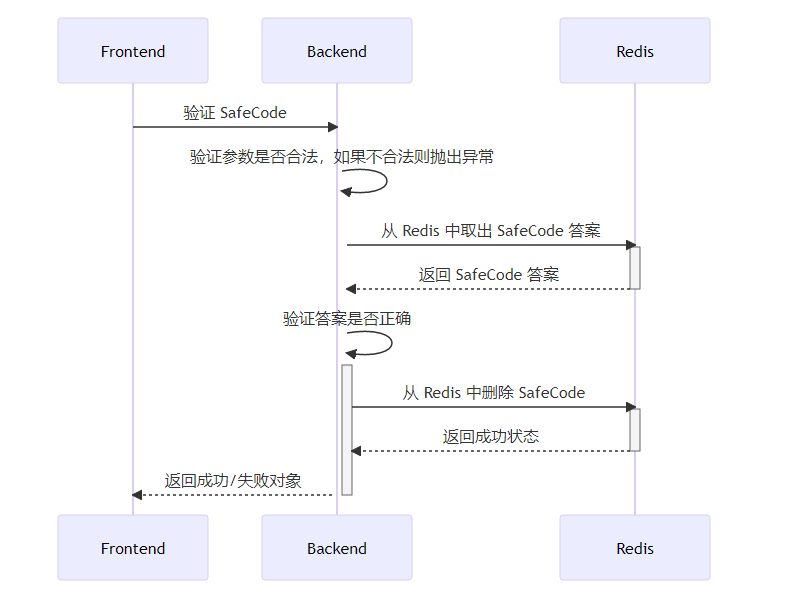
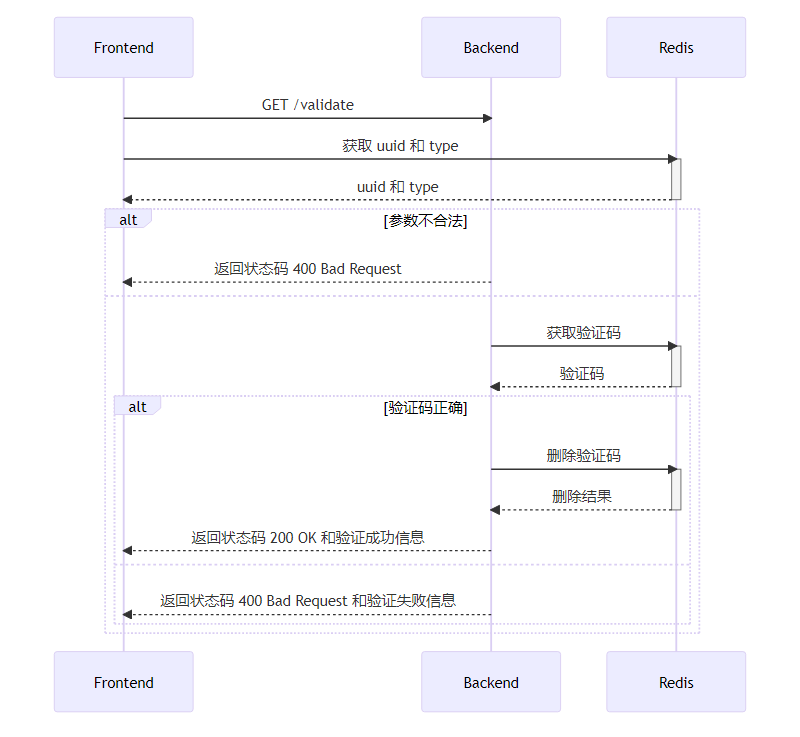
feat: 刷新处理文件任务列表按钮 img: UML 设计图 fix: 登录页面重定向问题

diff --git a/YueMedia/src/views/Introduction/index.vue b/YueMedia/src/views/Introduction/index.vue
@@ -67,9 +67,7 @@
             <img src="@/assets/image/icons/SHARE.svg" />
           </p>
           <p class="title">内容分享</p>
-          <p class="content">
-            平台同时结合数字媒体社区功能，旨在让音乐爱好者分享他们的音乐、听音乐、发现新音乐和交流。音频社区将会是一个充满活力和创意的社区，可以让音乐爱好者分享他们的音乐、听音乐、发现新音乐和交流。如果你是一个音乐爱好者，那么加入一个音乐社区可能会让你的音乐之旅更加有趣和丰富。。
-          </p>
+          <p class="content">平台结合分享短链功能，旨在为用户提供音乐分享，帮助用户拓展自己的音乐圈子、发现新音乐、推广自己的音乐和获得反馈和建议。如果您是一个音乐爱好者，那么音乐分享功能将帮助您更好地享受音乐之旅。</p>
         </div>
       </div>
     </div>

diff --git a/YueMedia/src/components/myFile/myFileTable.vue b/YueMedia/src/components/myFile/myFileTable.vue
@@ -21,14 +21,14 @@
         </template>
       </el-table-column>
       <!--   创建时间   -->
-      <el-table-column label="创建时间" width="250" prop="createdAt" sortable align="center">
+      <el-table-column label="创建时间" width="230" prop="createdAt" sortable align="center">
         <template slot-scope="scope">
           <i class="el-icon-time" style="margin-right: 10px"></i>
           <span>{{ scope.row.createdAt | dateFormat }}</span>
         </template>
       </el-table-column>
       <!--   完成时间   -->
-      <el-table-column label="完成时间" width="250" prop="finishedAt" align="center">
+      <el-table-column label="完成时间" width="230" prop="finishedAt" align="center">
         <template slot-scope="scope" v-if="scope.row.status === 2 || scope.row.status === 3">
           <i class="el-icon-time" style="margin-right: 10px"></i>
           <span>{{ scope.row.finishedAt | dateFormat }}</span>

diff --git a/YueMedia/src/views/MyFile/index.vue b/YueMedia/src/views/MyFile/index.vue
@@ -2,9 +2,12 @@
   <div style="height: 100%; width: 100%; display: flex; flex-direction: column">
     <el-card shadow="hover" class="body-card">
       <div slot="header" class="clearfix">
-        <h1>处理文件任务列表</h1>
+        <div style="display: flex; align-items: center; justify-content: space-between">
+          <h1>处理文件任务列表</h1>
+          <el-button icon="el-icon-refresh" type="primary" @click="refreshMyFileTable"></el-button>
+        </div>
       </div>
-      <myFileTable></myFileTable>
+      <myFileTable ref="myFileTable"></myFileTable>
     </el-card>
   </div>
 </template>
@@ -14,6 +17,11 @@ export default {
   name: 'MusicManageSystemMyFileView',
   components: {
     myFileTable: () => import('@/components/myFile/myFileTable.vue')
+  },
+  methods: {
+    refreshMyFileTable() {
+      this.$refs.myFileTable.renewTableData()
+    }
   }
 }
 </script>

diff --git a/YueMedia/src/router/index.js b/YueMedia/src/router/index.js
@@ -17,7 +17,7 @@ const routes = [
     path: '/login',
     name: 'login',
     component: login,
-    redirect: () => import('@/views/Login'),
+    redirect: '/login/login',
     children: [
       {
         path: 'login',

diff --git a/img/注册顺序图.md b/img/注册顺序图.md
@@ -3,28 +3,33 @@ sequenceDiagram
     participant Frontend
     participant Backend
     participant MySQL
-    Frontend->>Backend: 发送注册请求
-    Backend->>Backend: 判断参数是否存在
-    alt 参数不完整
-        Backend-->>Frontend: 返回请求参数不完整信息
-    else 参数完整
-        Backend->>MySQL: 查询用户是否已被注册
-        MySQL-->>Backend: 返回查询结果
+
+    Frontend->>Backend: POST /account/register
+    alt 请求参数不完整
+        Backend-->>Frontend: 返回状态码 400 Bad Request
+    else
+        Backend->>+MySQL: SELECT * FROM users WHERE username = 'username'
+        MySQL-->>-Backend: 用户数据
         alt 用户已被注册
-            Backend-->>Frontend: 返回用户已被注册信息
-        else 用户未被注册
-            Backend->>MySQL: 查询电话是否已被使用
-            MySQL-->>Backend: 返回查询结果
+            Backend-->>Frontend: 返回状态码 409 Conflict
+        else
+            Backend->>+MySQL: SELECT * FROM users WHERE phone = 'phone'
+            MySQL-->>-Backend: 用户数据
             alt 电话已被使用
-                Backend-->>Frontend: 返回电话已被使用信息
-            else 电话未被使用
-                Backend->>MySQL: 查询邮箱是否已被使用
-                MySQL-->>Backend: 返回查询结果
+                Backend-->>Frontend: 返回状态码 409 Conflict
+            else
+                Backend->>+MySQL: SELECT * FROM users WHERE email = 'email'
+                MySQL-->>-Backend: 用户数据
                 alt 邮箱已被使用
-                    Backend-->>Frontend: 返回邮箱已被使用信息
-                else 邮箱未被使用
-                    Backend->>MySQL: 注册新用户，新增用户数据
-                    Backend-->>Frontend: 返回注册成功信息
+                    Backend-->>Frontend: 返回状态码 409 Conflict
+                else
+                    Backend->>+Backend: 生成 UUID
+                    Backend->>+Backend: 加密密码
+                    Backend->>+MySQL: 插入用户数据
+                    MySQL-->>-Backend: 插入结果
+                    Backend->>+Backend: 计算用户已用存储空间
+                    Backend->>+Backend: 计算用户存储空间
+                    Backend-->>Frontend: 返回状态码 200 OK 和消息
                 end
             end
         end

diff --git a/img/登录顺序图.md b/img/登录顺序图.md
@@ -4,17 +4,47 @@ sequenceDiagram
     participant Backend
     participant MySQL
     participant MongoDB
+    participant Redis
 
     Frontend->>Backend: POST /account/login
-    Backend->>+MySQL: SELECT * FROM users WHERE username = 'username'
-    MySQL-->>-Backend: 用户数据
-    alt 用户不存在或密码错误
+    alt 请求参数不完整
         Backend-->>Frontend: 返回状态码 400 Bad Request
-    else 用户存在且密码正确
-        Backend->>+Backend: 生成 JWT Token
-        Backend->>+MongoDB: 插入登录记录
-        MongoDB-->>-Backend: 插入结果
-        Backend-->>Frontend: 返回状态码 200 OK 和 Token
+    else
+        Backend->>+MySQL: SELECT * FROM users WHERE username = 'username'
+        MySQL-->>-Backend: 用户数据
+        alt 用户不存在或密码错误
+            Backend-->>Frontend: 返回状态码 400 Bad Request
+        else
+            Backend->>+Redis: 获取 IP 登录次数
+            Redis-->>-Backend: 登录次数
+            alt IP 已锁定
+                Backend-->>Frontend: 返回状态码 400 Bad Request
+            else
+                Backend->>+Redis: 获取账号登录次数
+                Redis-->>-Backend: 登录次数
+                alt 账号已锁定
+                    Backend-->>Frontend: 返回状态码 400 Bad Request
+                else
+                    Backend->>+Backend: 比对密码
+                    Backend->>+Backend: 生成 JWT Token
+                    Backend->>+MongoDB: 插入登录记录
+                    MongoDB-->>-Backend: 插入结果
+                    Backend->>+Redis: 插入登录次数
+                    Redis-->>-Backend: 插入结果
+                    alt 登录成功
+                        Backend-->>Frontend: 返回状态码 200 OK 和 Token
+                    else 密码错误
+                        Backend->>+Redis: 插入 IP 登录次数
+                        Redis-->>-Backend: 插入结果
+                        Backend->>+Redis: 插入账号登录次数
+                        Redis-->>-Backend: 插入结果
+                        Backend-->>Frontend: 返回状态码 400 Bad Request
+                    end
+                end
+            end
+        end
     end
+
+
 
 ```

diff --git a/img/系统功能结构图.md b/img/系统功能结构图.md
@@ -1,0 +1,64 @@
+```mermaid
+flowchart LR;
+A[悦音-媒体管理一站式平台]-->B[音频管理];
+B-->BA[音频上传];
+B-->BB[音频下载];
+B-->BC[音频设置];
+B-->BD[音频播放];
+B-->BE[音频删除];
+B-->BF[音频查询];
+B-->BG[批量上传音频];
+B-->BH[批量下载音频];
+B-->BI[批量删除音频];
+B-->BJ[音频转码];
+A-->C[视频管理];
+C-->CA[视频上传];
+C-->CB[视频下载];
+C-->CC[视频设置];
+C-->CD[视频播放];
+C-->CE[视频删除];
+C-->CF[视频查询];
+C-->CG[批量上传视频];
+C-->CH[批量下载视频];
+C-->CI[批量删除视频];
+C-->CJ[视频转码];
+A-->D[用户管理];
+D-->DA[新增用户];
+D-->DB[修改用户信息];
+D-->DC[修改密码];
+D-->DD[修改用户状态];
+D-->DE[删除用户];
+D-->DF[查询用户];
+D-->DG[批量删除用户];
+A-->E[音频处理];
+E-->EA[音频剪辑];
+E-->EB[音频合并];
+E-->EC[音频转换];
+E-->ED[音频压缩];
+E-->EE[音频加密];
+E-->EF[音频解密];
+E-->EG[音频添加水印];
+E-->EH[音频抽取音频];
+A-->F[视频处理];
+F-->FA[视频剪辑];
+F-->FB[视频合并];
+F-->FC[视频转换];
+F-->FD[视频压缩];
+F-->FE[视频加密];
+F-->FF[视频解密];
+F-->FG[视频添加水印];
+F-->FH[视频抽取音频];
+F-->FI[视频抽取图片];
+A-->G[开放API接口];
+G-->GA[共享音频功能];
+G-->GB[共享视频功能];
+G-->GC[音频处理功能];
+G-->GD[视频处理功能];
+A-->H[数据分析];
+H-->HA[API使用情况统计];
+HA-->HAA[API音视频处理情况];
+H-->HB[用户使用情况统计];
+HB-->HBA[用户音视频上传情况];
+HB-->HBB[用户音视频下载情况];
+
+```

diff --git a/img/注册状态图.md b/img/注册状态图.md
@@ -1,9 +1,25 @@
 ```mermaid
 stateDiagram
-    [*] --> 校验请求体是否合法
-    校验请求体是否合法 --> 判断用户名|电话|邮箱是否已被注册
-    判断用户名|电话|邮箱是否已被注册 --> 生成uuid和bcrypt加密密码
-    生成uuid和bcrypt加密密码 --> 插入用户表，新增用户数据
-    插入用户表，新增用户数据 --> 返回注册成功信息
-    返回注册成功信息 --> [*]
+    [*] --> 判断参数是否存在
+    判断参数是否存在 -->|参数不完整|
+    |参数不完整| --> 返回失败响应
+    判断参数是否存在 -->|参数完整|
+    |参数完整| --> 判断用户是否已被注册
+    判断用户是否已被注册 -->|用户已被注册|
+    |用户已被注册| --> 返回失败响应
+    判断用户是否已被注册 -->|用户未被注册|
+    |用户未被注册| --> 判断电话是否已被使用
+    判断电话是否已被使用 -->|电话已被使用|
+    |电话已被使用| --> 返回失败响应
+    判断电话是否已被使用 -->|电话未被使用|
+    |电话未被使用| --> 判断邮箱是否已被使用
+    判断邮箱是否已被使用 -->|邮箱已被使用|
+    |邮箱已被使用| --> 返回失败响应
+    判断邮箱是否已被使用 -->|邮箱未被使用|
+    |邮箱未被使用| --> 注册新用户
+    注册新用户 --> 计算用户已使用的存储空间
+    计算用户已使用的存储空间 --> 计算用户存储空间
+    计算用户存储空间 --> 返回成功响应
+    返回成功响应 --> [*]
+    返回失败响应 --> [*]
 ```

diff --git a/img/验证码状态图.md b/img/验证码状态图.md
@@ -1,11 +1,23 @@
 ```mermaid
-stateDiagram
-    [*] --> 生成验证码
-    生成验证码 --> [*]: 验证码生成成功
-
-    [*] --> 校验验证码: 用户提交验证码
-    校验验证码 --> 校验成功: 验证码正确
-    校验验证码 --> 校验失败: 验证码错误
-    校验失败 --> [*]: 重新生成验证码
-    校验成功 --> 登录: 校验成功
+stateDiagram-v2
+    [*] --> 判断参数是否合法
+    判断参数是否合法 -->|参数不合法|
+    |参数不合法| --> 返回失败响应
+    判断参数是否合法 -->|参数合法|
+    |参数合法| --> 从Redis中取出答案
+    从Redis中取出答案 --> 判断验证码类型
+    判断验证码类型 -->|字符串类型|
+    |字符串类型| --> 判断答案是否相同
+    判断答案是否相同 -->|答案正确|
+    |答案正确| --> 删除Redis中的键值
+    删除Redis中的键值 --> 返回成功对象
+    |答案错误| --> 返回失败响应
+    判断验证码类型 -->|数学类型|
+    |数学类型| --> 判断答案是否相同
+    判断答案是否相同 -->|答案正确|
+    |答案正确| --> 删除Redis中的键值
+    删除Redis中的键值 --> 返回成功对象
+    判断答案是否相同 -->|答案错误|
+    返回成功对象 --> [*]
+    返回失败响应 --> [*]
 ```

diff --git a/img/验证码生成顺序图.md b/img/验证码生成顺序图.md
@@ -3,15 +3,22 @@ sequenceDiagram
     participant Frontend
     participant Backend
     participant Redis
-    Frontend->>+Backend: 获取验证码
-    Backend->>+Redis: 存储 uuid 和验证码
-    Redis-->>-Backend: 返回成功信息
-    Backend-->>-Frontend: 返回验证码
-    Frontend->>+Backend: 校验验证码
-    Backend->>+Redis: 通过 uuid 获取验证码
-    Redis-->>-Backend: 返回验证码
-    Backend->>+Backend: 校验验证码
-    Backend-->>-Frontend: 返回校验结果
-    Backend->>+Redis: 通过 uuid 删除验证码
-    Redis-->>-Backend: 返回成功信息
+
+    Frontend->>Backend: POST /api/captcha?type=string
+    Backend->>+Backend: 生成 uuid
+    Backend->>+Backend: 生成验证码
+    Backend->>+Redis: 存储验证码
+    Redis-->>-Backend: 存储结果
+    Backend-->>Frontend: 返回状态码 200 OK 和验证码数据
+
+    activate Frontend
+    Frontend->>Backend: POST /api/verification
+    Backend->>+Redis: 获取验证码
+    Redis-->>-Backend: 获取结果
+    Backend->>+Backend: 比对验证码
+    Backend->>+Backend: 生成安全码
+    Backend->>+Redis: 存储安全码
+    Redis-->>-Backend: 存储结果
+    Backend-->>Frontend: 返回状态码 200 OK 和安全码
+    deactivate Frontend
 ```

diff --git a/img/验证码验证顺序图.md b/img/验证码验证顺序图.md
@@ -3,12 +3,22 @@ sequenceDiagram
     participant Frontend
     participant Backend
     participant Redis
-    Frontend->>+Backend: 验证 SafeCode
-    Backend->>+Backend: 验证参数是否合法，如果不合法则抛出异常
-    Backend->>+Redis: 从 Redis 中取出 SafeCode 答案
-    Redis-->>-Backend: 返回 SafeCode 答案
-    Backend->>+Backend: 验证答案是否正确
-    Backend->>+Redis: 从 Redis 中删除 SafeCode
-    Redis-->>-Backend: 返回成功状态
-    Backend-->>-Frontend: 返回成功/失败对象
+
+    Frontend->>Backend: GET /validate
+    Frontend->>+Redis: 获取 uuid 和 type
+    Redis-->>-Frontend: uuid 和 type
+    alt 参数不合法
+        Backend-->>Frontend: 返回状态码 400 Bad Request
+    else
+        Backend->>+Redis: 获取验证码
+        Redis-->>-Backend: 验证码
+        alt 验证码正确
+            Backend->>+Redis: 删除验证码
+            Redis-->>-Backend: 删除结果
+            Backend-->>Frontend: 返回状态码 200 OK 和验证成功信息
+        else
+            Backend-->>Frontend: 返回状态码 400 Bad Request 和验证失败信息
+        end
+    end
+
 ```

diff --git a/img/登录状态图.md b/img/登录状态图.md
@@ -1,8 +1,23 @@
 ```mermaid
 stateDiagram-v2
-    [*] --> 未登录
-    未登录 --> 正在登录 : 登录
-    正在登录 --> 已登录 : 成功
-    正在登录 --> 未登录 : 失败
-    已登录 --> [*] : 注销
+    [*] --> 判断参数是否存在
+    判断参数是否存在 -->|参数不完整|
+    |参数不完整| --> 返回失败响应
+    判断参数是否存在 -->|参数完整|
+    |参数完整| --> 获取MySQL用户信息
+    获取MySQL用户信息 --> 判断用户是否存在
+    判断用户是否存在 -->|用户不存在|
+    |用户不存在| -->返回失败响应
+    判断用户是否存在 -->|用户存在|
+    |用户存在| -->比对密码是否相同
+    比对密码是否相同 -->|密码相同|
+    |密码相同| -->生成JsonWebToken
+    生成JsonWebToken --> 登录记录
+    登录记录 --> 统计登录记录
+    统计登录记录 --> 返回成功响应
+    比对密码是否相同 -->|密码不同|
+    |密码不同| -->登录账号和IP锁定
+    登录账号和IP锁定 --> 返回失败响应
+    返回成功响应 --> [*]
+    返回失败响应 --> [*]
 ```
